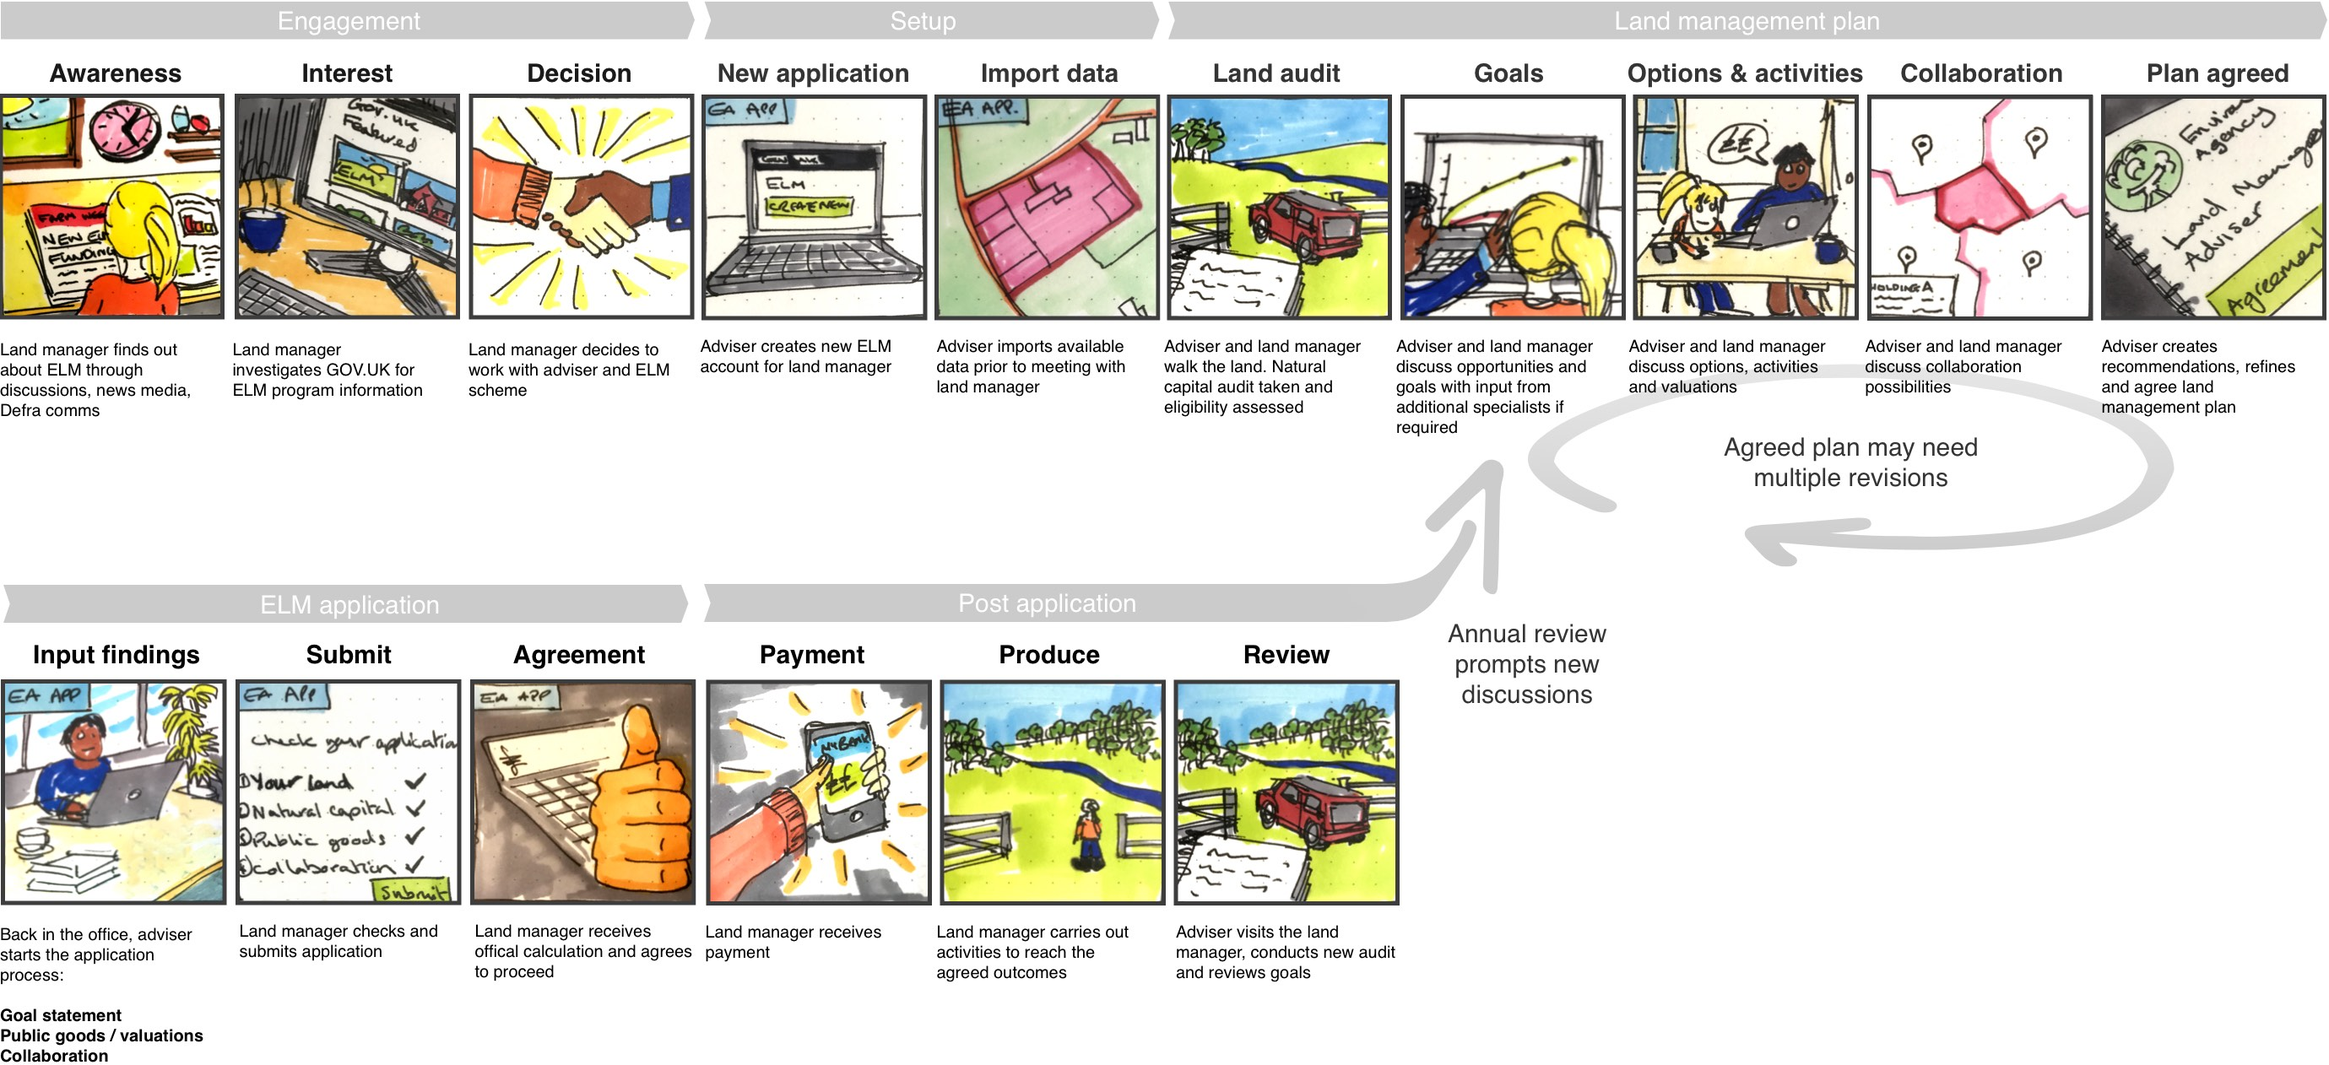
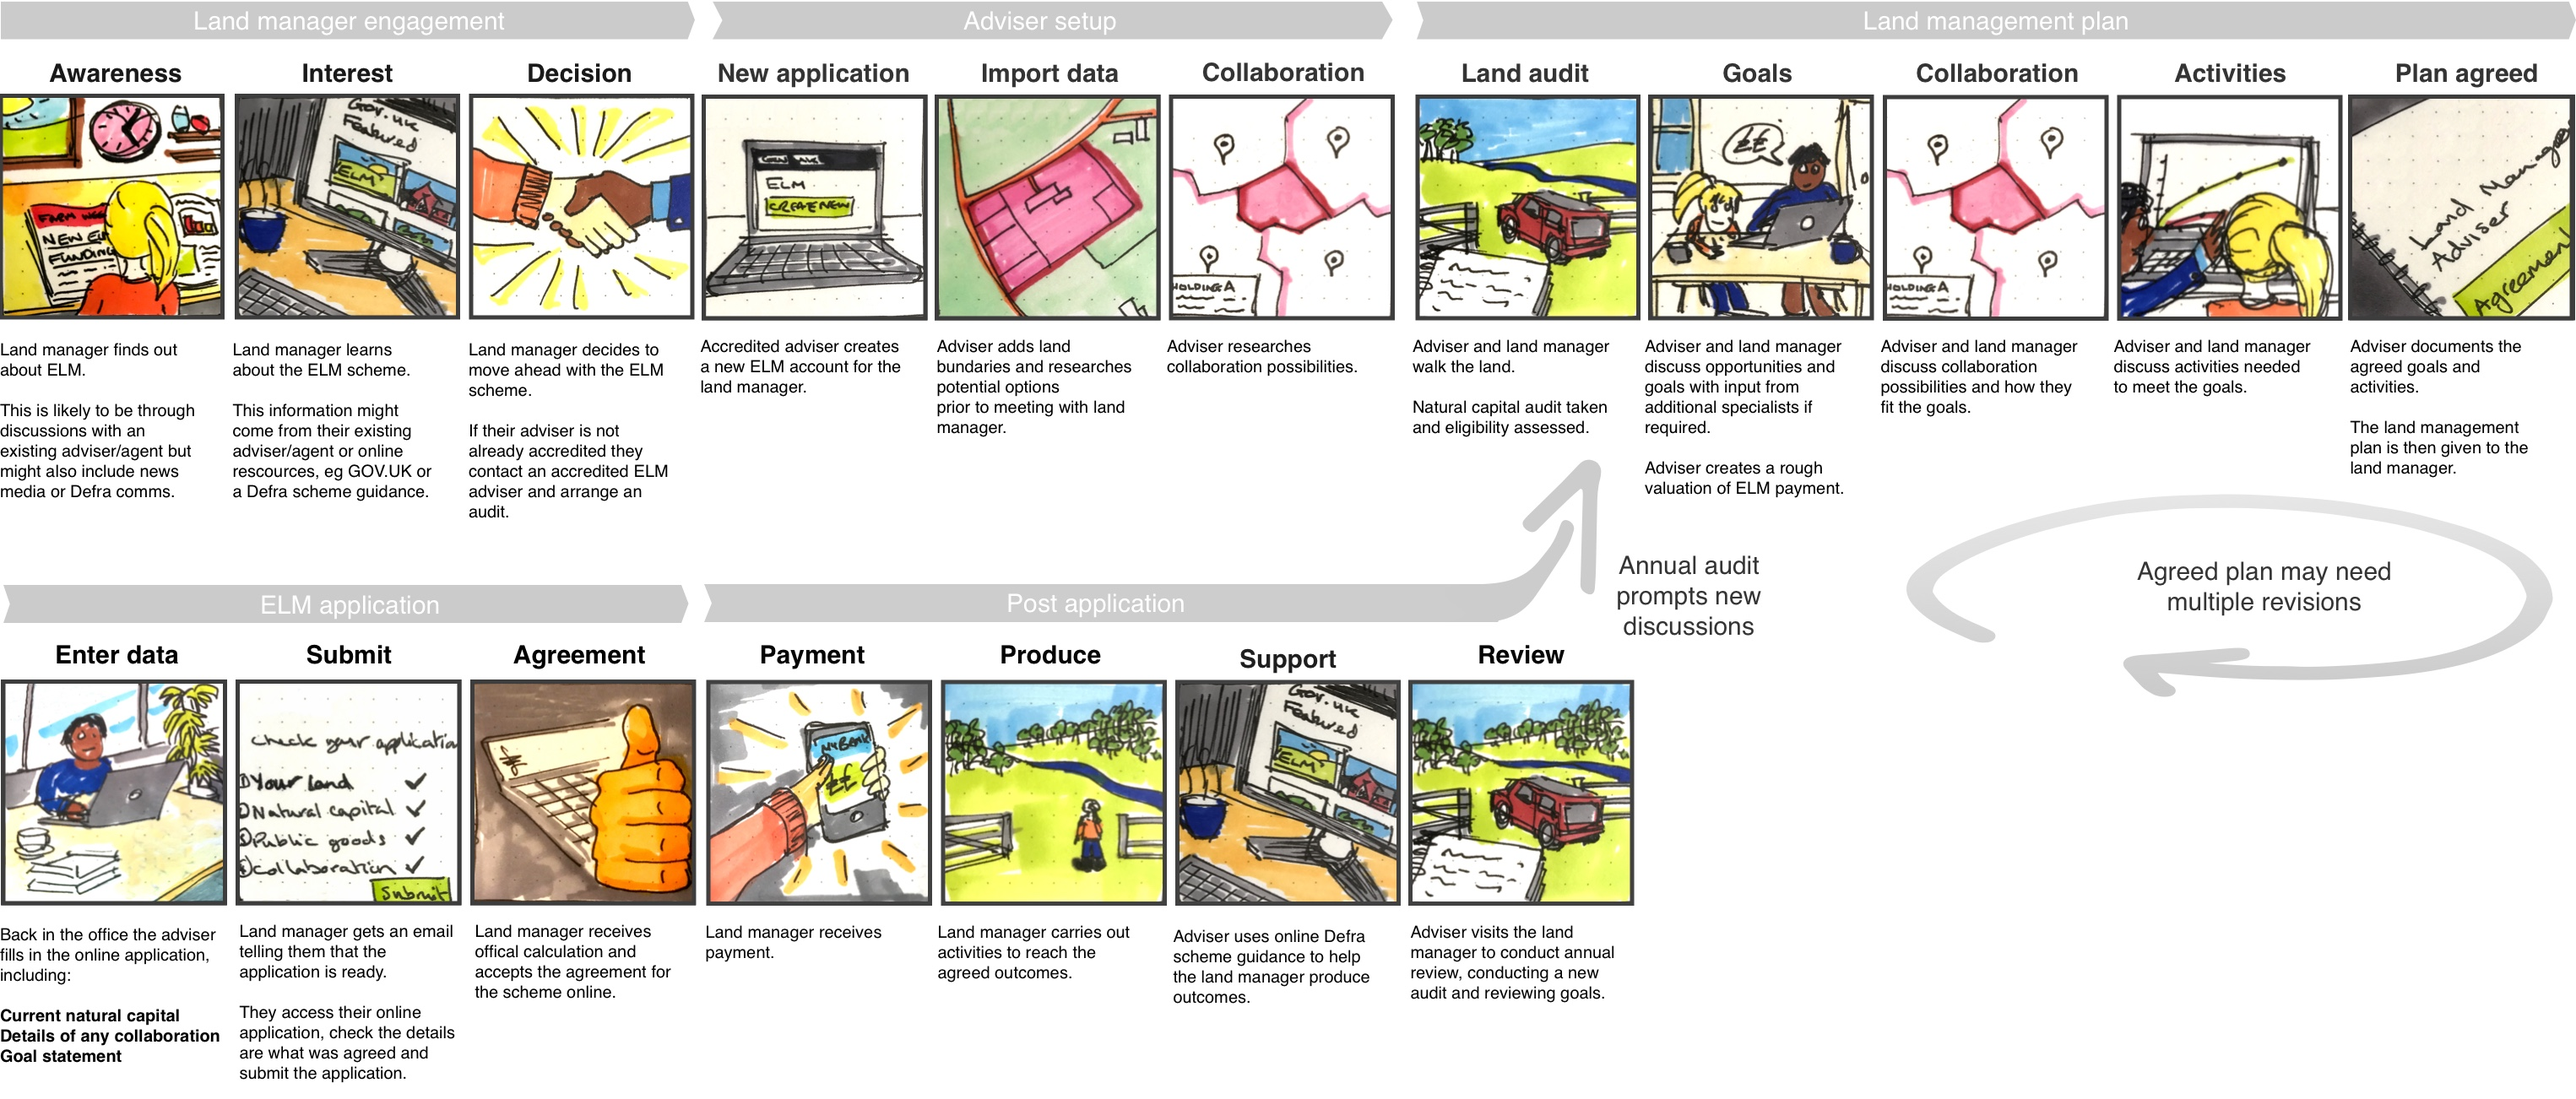
Storyboard v2 Updated the storyboard based on last round of research Updated changelog with details of research and v2 changes

diff --git a/app/views/index.html b/app/views/index.html
@@ -29,16 +29,21 @@
   				{# Start of prototype write up #}
   				<div class="prototype-write-up">
             {{ govukTag({
-              text: 'Alpha sprint 3',
+              text: 'Alpha sprint 0 (guidance)',
               classes: 'govuk-!-margin-bottom-4'
             }) }}
 
             <h3 class='govuk-heading-m'>
               Storyboard
-              <!-- <span class="version">Version 1</span> -->
+              <span class="version">Version 2</span>
             </h3>
 
-            <h4 class="govuk-heading-s govuk-!-margin-bottom-1">Hypotheses</h4>
+            <p>Updated after first round of research. Changes include:</p>
+            <ul class="govuk-list govuk-list--bullet">
+              <li>calling out the Defra guidance product in early and late stages of the journey</li>
+              <li>including collaboration at setup stage</li>
+              <li>clarity of language used</li>
+            </ul>
 
   					<!-- <h4 class="govuk-heading-s govuk-!-margin-bottom-1">Research notes</h4>
   					<p>
@@ -64,7 +69,7 @@
 
 
 
-      <!-- <h2 class='govuk-heading-l'>
+      <h2 class='govuk-heading-l'>
         Sprint history
       </h2>
       {# Start of hidden panel #}
@@ -82,17 +87,33 @@
               classes: 'govuk-!-margin-bottom-4'
             }) }}
 
+            {{ govukInsetText({
+                text: 'Note: the team priority was changed to guidance after this sprint, and the sprint numbers reset.',
+                classes: 'govuk-!-margin-top-0'
+            }) }}
+
             <h3 class='govuk-heading-m'>
               Storyboard
-              {# <span class="version">Version 1</span> #}
+              <!-- <span class="version">Version 1</span> -->
             </h3>
 
-            <h4 class="govuk-heading-s govuk-!-margin-bottom-1">Hypotheses</h4>
+            <p>An end-to-end service storyboard, assuming that the application process will be adviser led.</p>
 
+  					<h4 class="govuk-heading-s govuk-!-margin-bottom-1">Research notes</h4>
+  					<p>The storyboard was researched with 4 advisers in 3 remote moderated sessions.</p>
+
+            <p>The key fiindds were that:</p>
+            <ul class="govuk-list govuk-list--bullet">
+              <li>advsiers are best placed to deliver awareness of ELM (potential bias)</li>
+              <li>collaboration needs to be considered before the land audit</li>
+              <li>advsiers were concered about auditing, advising and inspecting</li>
+            </ul>
+
+            <p>View the <a href="https://drive.google.com/drive/u/1/folders/1L5luvUSCu0N5qslLnroJpxrOZJF7eJrw">sorted post-its from team session</a> for more detail.</p>
 
             {{ govukButton({
               text: "View storyboard",
-              href: "storyboard"
+              href: "https://elm-storyboard-1.herokuapp.com/storyboard"
             }) }}
 
   				</div>
@@ -100,7 +121,7 @@
 
 				</div>
 			</details>
-			{# End of hidden panel #} -->
+			{# End of hidden panel #}
 
 
 
@@ -114,14 +135,19 @@
         </h2>
         <nav role="navigation" aria-labelledby="subsection-title">
           <ul class="govuk-list govuk-!-font-size-16">
-            <!-- <li>
-              <a href="https://github.com/">
-                Prototype repository on GitHub
+            <li>
+              <a href="https://github.com/DEFRA/elm-prototype">
+                Prototype GitHub repository
               </a>
-            </li> -->
+            </li>
             <li>
               <a href="https://eaflood.atlassian.net/wiki/spaces/ELM/overview">
-                ELM confluence
+                Project Confluence
+              </a>
+            </li>
+            <li>
+              <a href="https://drive.google.com/drive/u/1/folders/0AIJpwGmbYIzKUk9PVA">
+                Team Google Drive
               </a>
             </li>
 

diff --git a/app/assets/sass/patterns/_changelog.scss b/app/assets/sass/patterns/_changelog.scss
@@ -10,6 +10,10 @@
     top: 0;
     left: 0;
   }
+
+  .govuk-button {
+    margin-bottom: 0;
+  }
 }
 
 .version {
@@ -21,7 +25,7 @@
 
 @media (min-width: 641px) {
   .most-recent {
-    padding: 55px 30px 32px;
+    padding: 55px 30px 40px;
   }
 }
 
